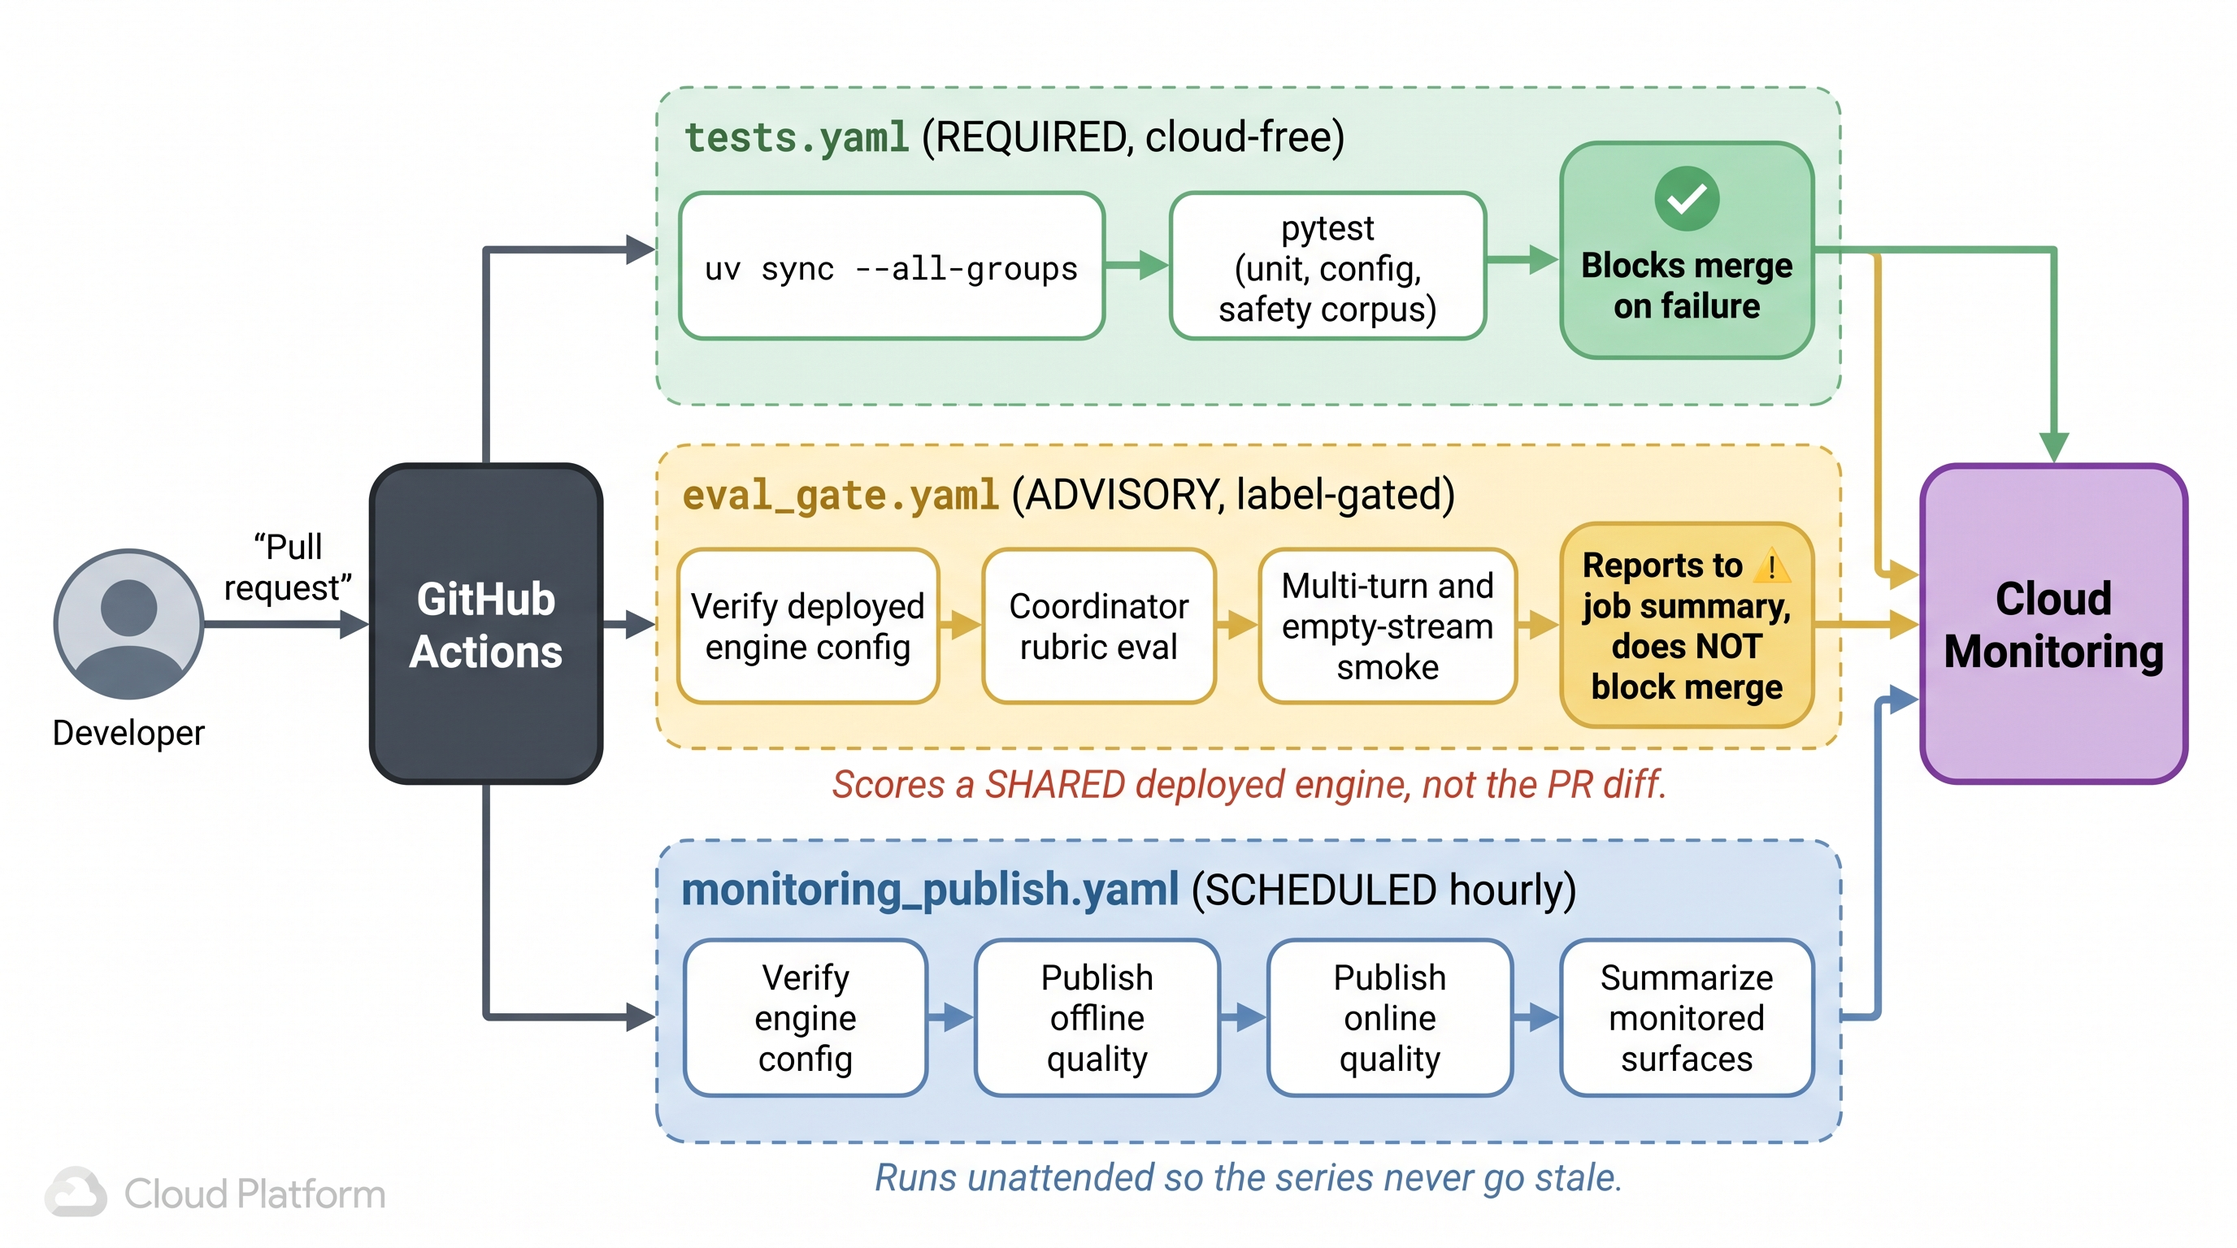
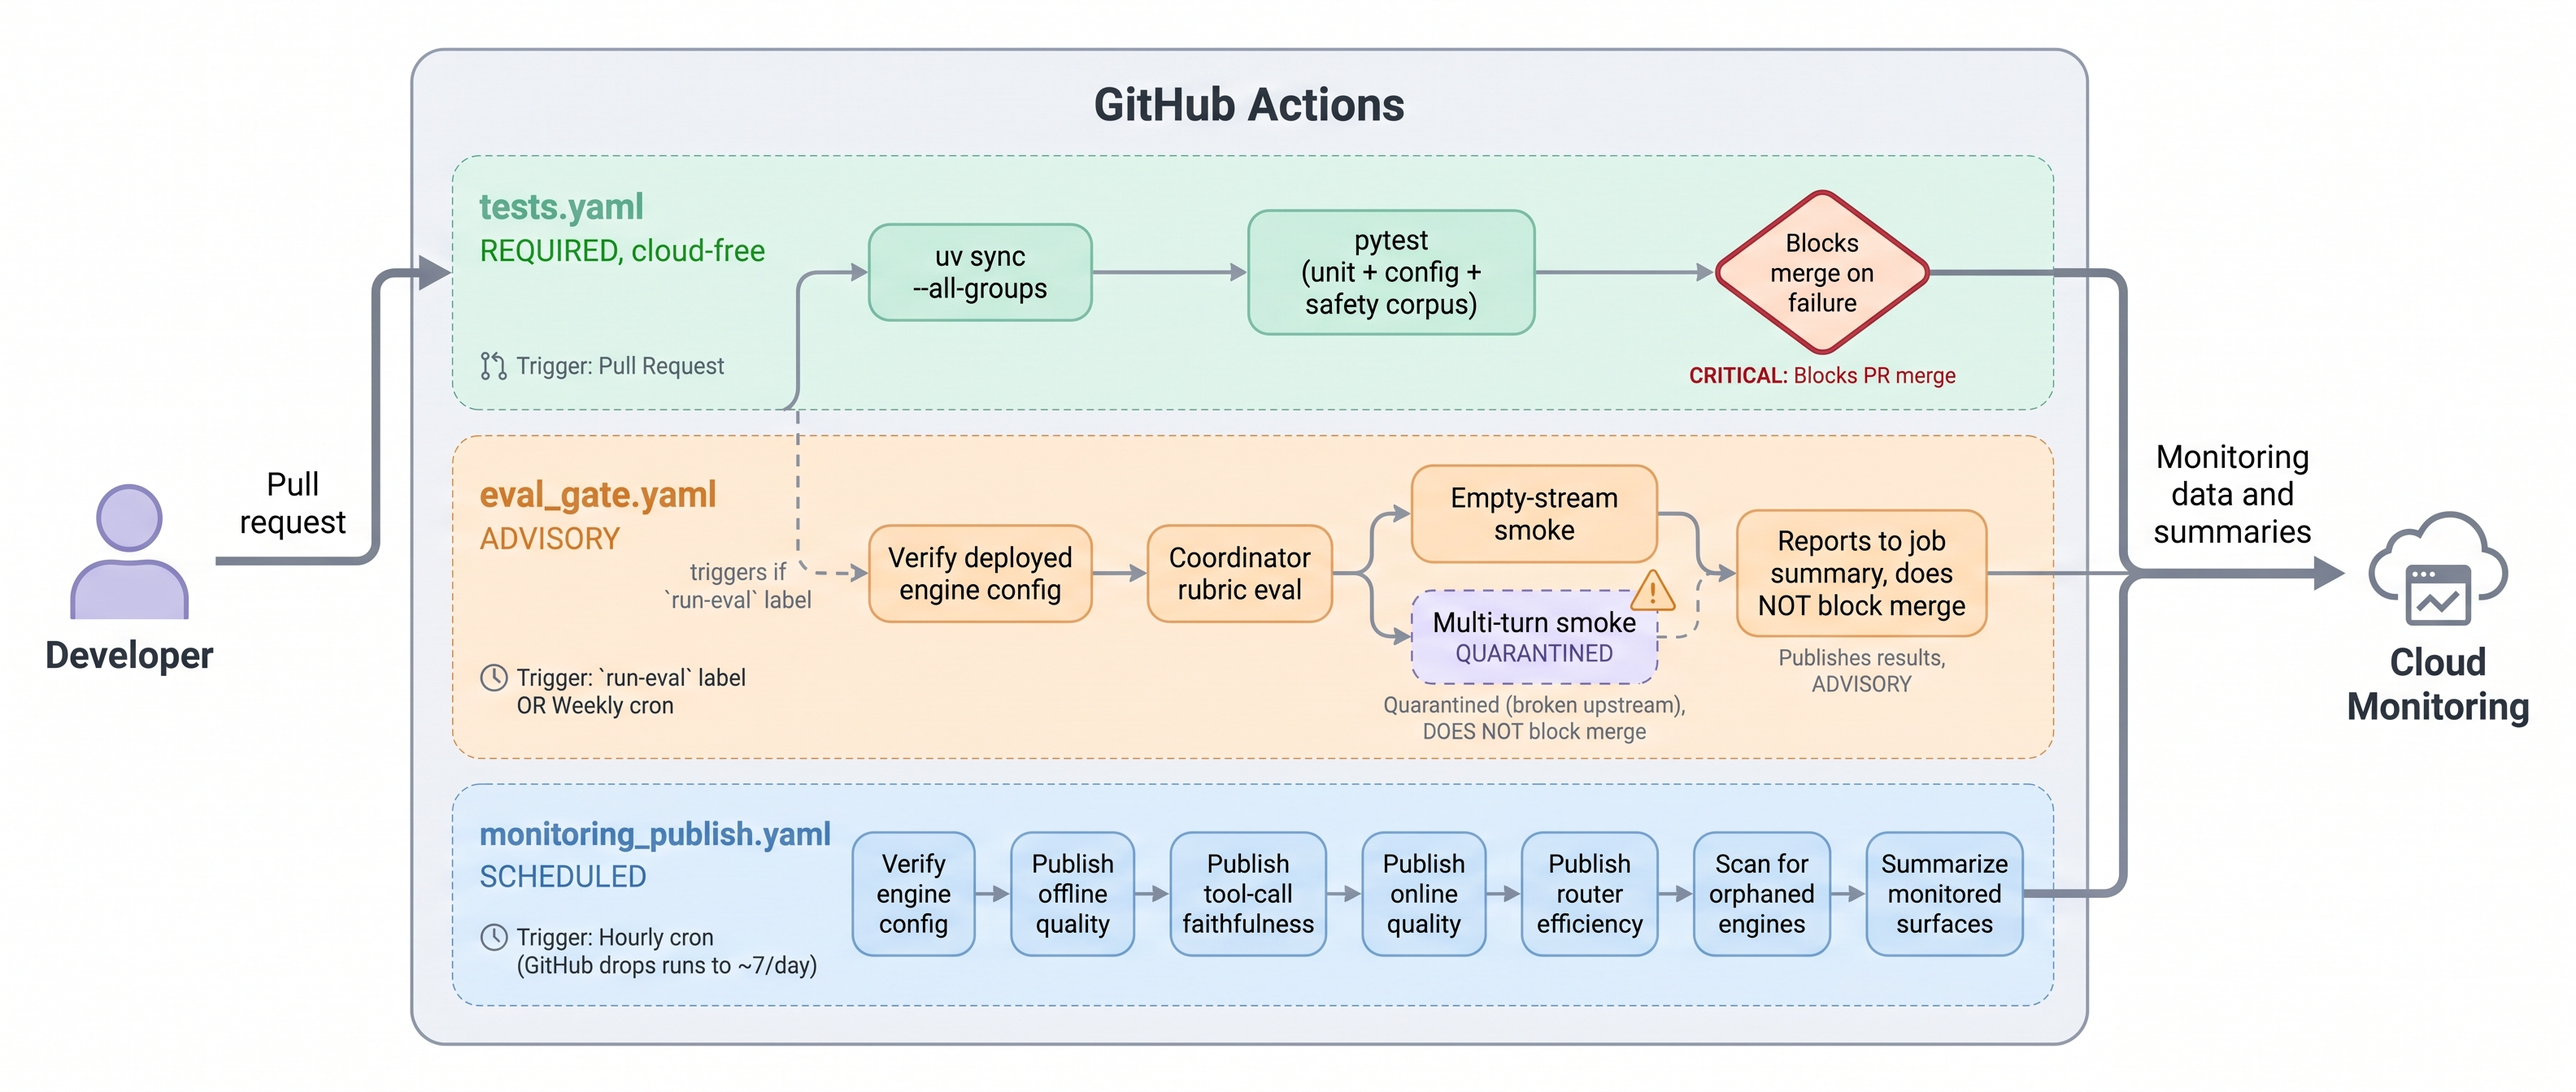
fix(diagrams): regenerate all eight; .env was silently disabling the API key
The generator now works end to end and the four corrected specs are rendered,
so the README no longer has to warn that its own images contradict them.

The blocker was not a missing key -- GOOGLE_API_KEY in .env is valid, and the
same key returns HTTP 200 from generativelanguage.googleapis.com. It was that
.env also sets GOOGLE_GENAI_USE_VERTEXAI=1 and GOOGLE_GENAI_USE_ENTERPRISE=1,
because every OTHER caller here talks to Vertex with ADC. paperbanana
authenticates to the Gemini Developer API with the key, and google-genai reads
those two flags to choose a backend -- so the client switched to Vertex mode,
ignored the key, and every diagram died on ClientError 401 UNAUTHENTICATED
while the key was fine.

They have to be SET to false, not unset: paperbanana calls load_dotenv() itself,
which re-reads .env and puts the 1s back. load_dotenv does not override a name
already in the environment, so an explicit false survives it and `env -u` does
not -- confirmed by trying `env -u` first and getting 22 more 401s.

Also: the script now sources scripts/lib/config.sh, so the key may live in .env
as its header always claimed (it previously read only the environment), and it
fails fast when no key is present at all. That last part matters because
paperbanana fails each ITEM and still exits 0, which is how a broken generator
went unnoticed from 2026-08-22 to 2026-09-10.

All eight regenerated rather than only the four corrected ones: that is what
[…]

diff --git a/README.md b/README.md
@@ -164,19 +164,16 @@ Two of those cut-points were deliberately moved **off** their DOE-tuned values b
 
 Specs live in `diagrams/inputs/`; regenerate with `./scripts/generate_diagrams.sh`.
 
-> **Four specs are ahead of their rendered PNGs (2026-09-10).** The images below were
-> generated 2026-08-22. `01_multi_agent_topology`, `05_observability_stack`,
-> `06_ci_cd_flow` and `07_agent_armor` have since been corrected in
-> `diagrams/inputs/` but **not re-rendered**, so those four PNGs still show the older
-> content. The specs are the source of truth; read them if the two disagree.
-> `07_agent_armor` matters most — the rendered image says a Gemini-3 or Claude
-> backbone has the client-side guardrail as its *only* layer, which stopped being
-> true when ADK's Model Armor plugin became the default in #111.
->
-> Re-rendering needs a `GOOGLE_API_KEY` (or `OPENAI_API_KEY`) in the environment;
-> without one every item fails individually while the batch still exits 0, so read
-> the per-item table rather than the exit code. Set the key and run
-> `./scripts/generate_diagrams.sh`, then delete this note.
+All eight regenerated 2026-09-10 from corrected specs, after four of them
+(`01_multi_agent_topology`, `05_observability_stack`, `06_ci_cd_flow`,
+`07_agent_armor`) were found to disagree with the system they describe.
+`07_agent_armor` was the worst: it claimed a Gemini-3 or Claude backbone ran with
+the client-side guardrail as its *only* layer, which stopped being true when ADK's
+Model Armor plugin became the default in #111.
+
+Regeneration needs `GOOGLE_API_KEY` (or `OPENAI_API_KEY`), read from `.env` or the
+environment. Note that a missing or unusable key fails **every item individually
+while the batch still exits 0** — read the per-item table, not the exit code.
 
 | Diagram | Description |
 |---------|-------------|
